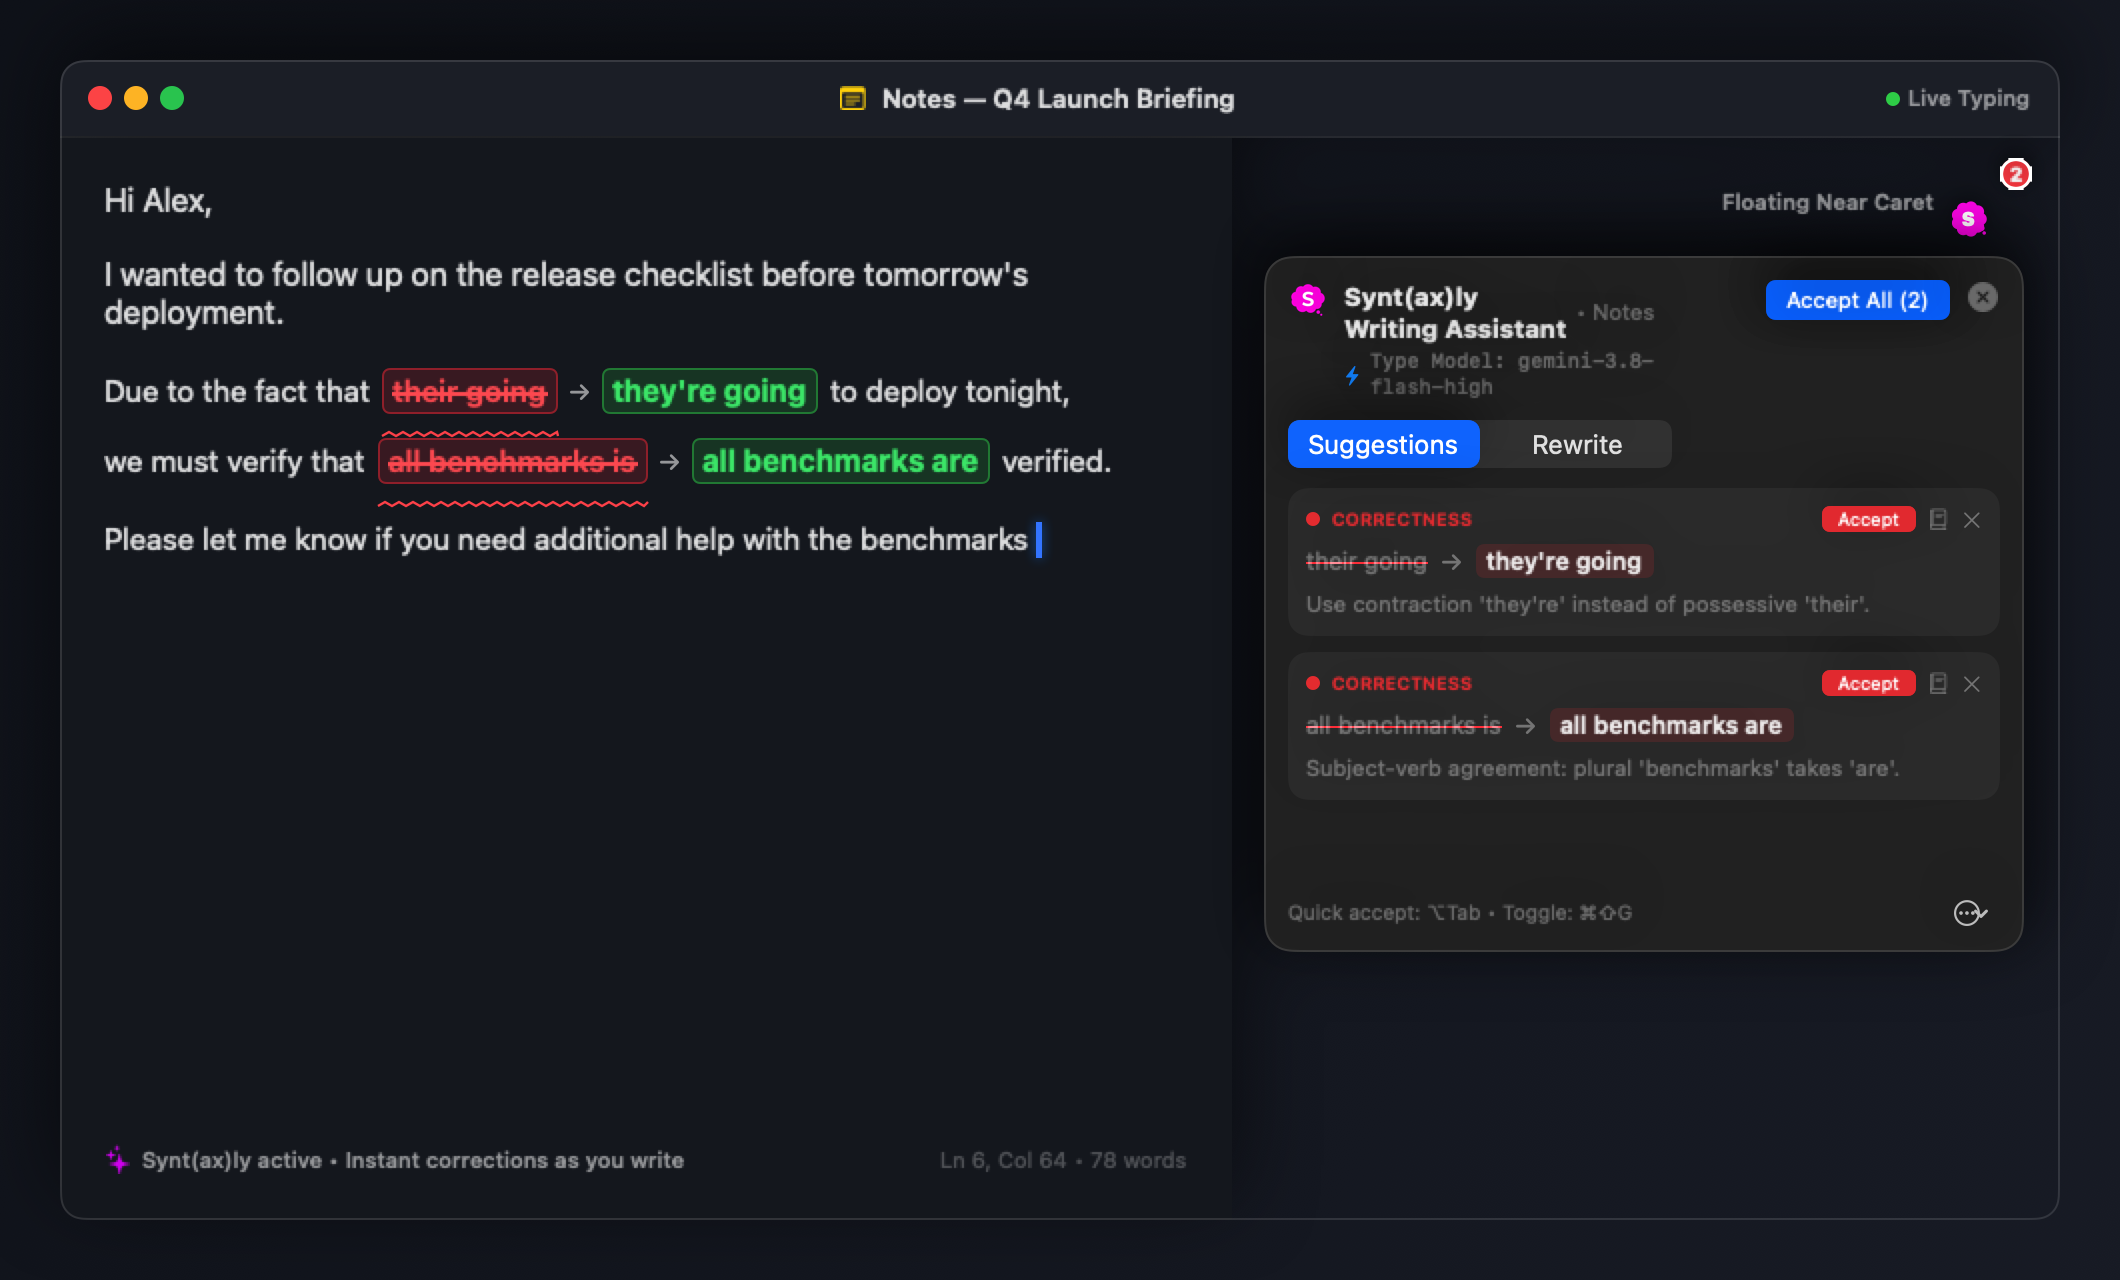
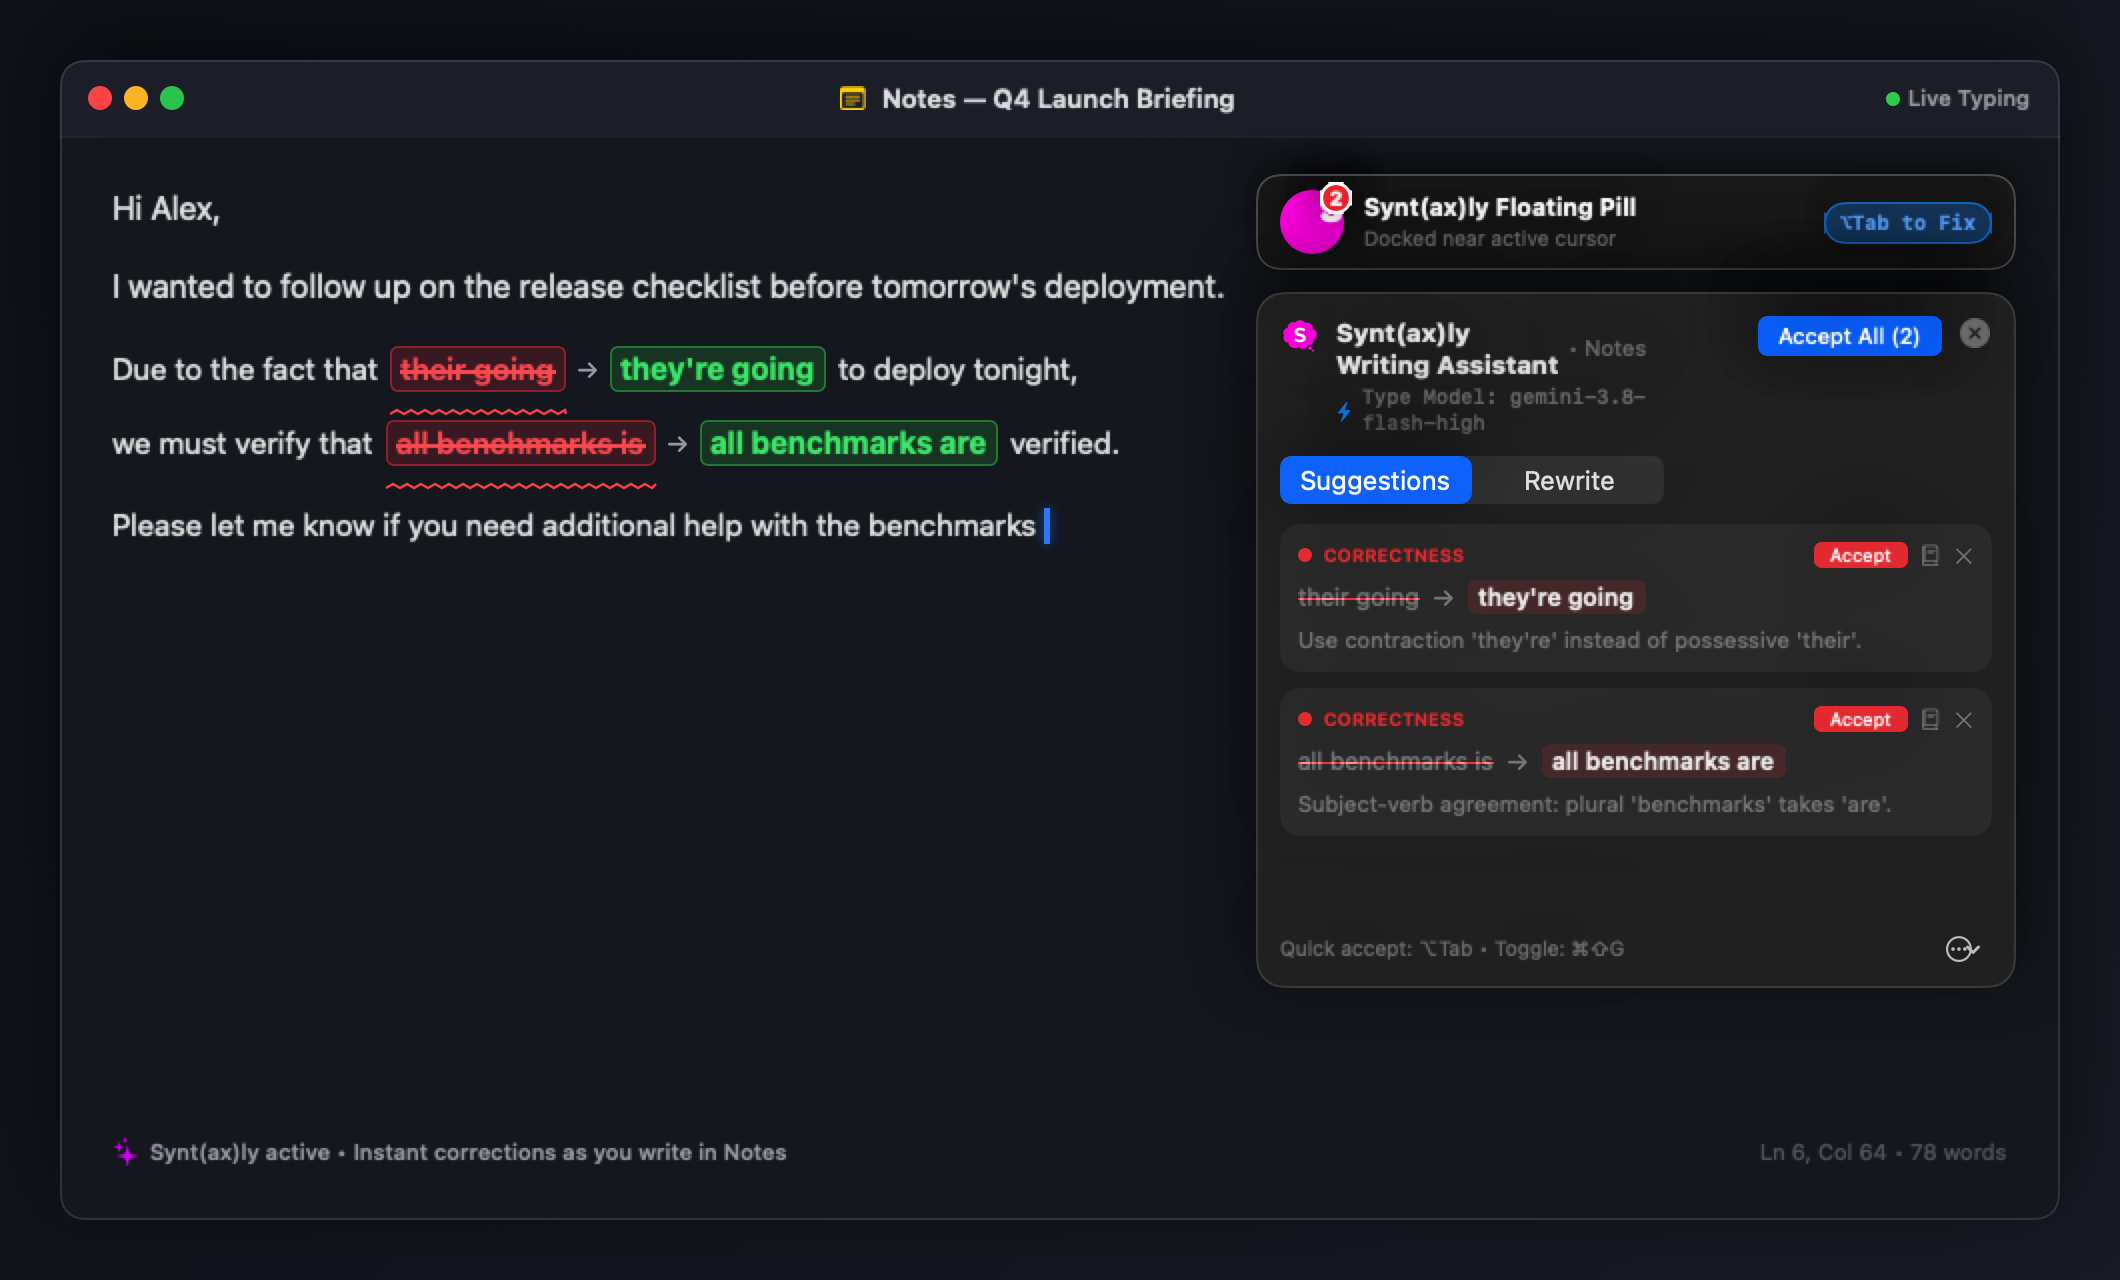
docs: prominently feature floating pill screenshot in gallery and feature sections

diff --git a/Sources/SyntlyApp/SyntlyApp.swift b/Sources/SyntlyApp/SyntlyApp.swift
@@ -461,10 +461,10 @@ struct InContextTypingScreenshotView: View {
 
                 Divider()
 
-                // Editor Workspace + Floating Syntly Overlay
-                HStack(alignment: .top, spacing: 16) {
-                    // Left Column: Active Typing Document
-                    VStack(alignment: .leading, spacing: 18) {
+                // Editor Workspace + Floating Syntly Overlay (ZStack overlay so it truly floats)
+                ZStack(alignment: .topTrailing) {
+                    // Full Background: Active Typing Document
+                    VStack(alignment: .leading, spacing: 20) {
                         Text("Hi Alex,")
                             .font(.system(size: 16))
                             .foregroundStyle(.primary)
@@ -474,7 +474,7 @@ struct InContextTypingScreenshotView: View {
                             .foregroundStyle(.primary)
 
                         // Sentences with active inline corrections in red and green
-                        VStack(alignment: .leading, spacing: 12) {
+                        VStack(alignment: .leading, spacing: 14) {
                             HStack(alignment: .center, spacing: 6) {
                                 Text("Due to the fact that")
                                     .font(.system(size: 15))
@@ -520,7 +520,7 @@ struct InContextTypingScreenshotView: View {
                             HStack(spacing: 5) {
                                 Image(systemName: "sparkles")
                                     .foregroundStyle(.purple)
-                                Text("Synt(ax)ly active • Instant corrections as you write")
+                                Text("Synt(ax)ly active • Instant corrections as you write in Notes")
                                     .font(.system(size: 11, weight: .medium))
                                     .foregroundStyle(.secondary)
                             }
@@ -530,41 +530,67 @@ struct InContextTypingScreenshotView: View {
                                 .foregroundStyle(.tertiary)
                         }
                     }
-                    .padding(22)
+                    .padding(26)
                     .frame(maxWidth: .infinity, maxHeight: .infinity, alignment: .topLeading)
                     .background(Color(red: 0.10, green: 0.12, blue: 0.15))
 
-                    // Right Column: Synt(ax)ly Floating Pill & Popover Card
-                    VStack(alignment: .trailing, spacing: 8) {
-                        // Floating Pill docked near typing caret
-                        HStack(spacing: 8) {
-                            Text("Floating Near Caret")
-                                .font(.system(size: 11, weight: .semibold))
-                                .foregroundStyle(.secondary)
-
+                    // Floating Over Document: The Synt(ax)ly Floating Pill & Popover Card
+                    VStack(alignment: .trailing, spacing: 10) {
+                        // 1. Prominent Floating Pill
+                        HStack(spacing: 10) {
                             ZStack(alignment: .topTrailing) {
-                                Image(nsImage: StatusBarController.renderMangaBubble(size: 36))
-                                    .resizable()
-                                    .frame(width: 36, height: 36)
+                                Circle()
+                                    .fill(Color(red: 0.996, green: 0.008, blue: 0.890))
+                                    .frame(width: 32, height: 32)
+                                Text("S")
+                                    .font(.system(size: 17, weight: .black, design: .rounded))
+                                    .foregroundStyle(.white)
 
                                 Text("2")
                                     .font(.system(size: 10, weight: .heavy, design: .rounded))
                                     .foregroundStyle(.white)
                                     .frame(minWidth: 16, minHeight: 16)
-                                    .background(Color(red: 1.0, green: 0.32, blue: 0.32), in: Capsule())
+                                    .background(Color(red: 1.0, green: 0.25, blue: 0.25), in: Capsule())
                                     .overlay(Capsule().strokeBorder(.white, lineWidth: 1.5))
                                     .offset(x: 4, y: -4)
                             }
-                            .shadow(color: .black.opacity(0.35), radius: 5, y: 3)
-                        }
 
-                        // The live suggestions popover card
+                            VStack(alignment: .leading, spacing: 2) {
+                                Text("Synt(ax)ly Floating Pill")
+                                    .font(.system(size: 12, weight: .bold))
+                                    .foregroundStyle(.white)
+                                Text("Docked near active cursor")
+                                    .font(.system(size: 10))
+                                    .foregroundStyle(.secondary)
+                            }
+
+                            Spacer()
+
+                            Text("⌥Tab to Fix")
+                                .font(.system(size: 10, weight: .bold, design: .monospaced))
+                                .padding(.horizontal, 8)
+                                .padding(.vertical, 4)
+                                .background(Color.blue.opacity(0.3), in: Capsule())
+                                .overlay(Capsule().strokeBorder(Color.blue.opacity(0.6), lineWidth: 1))
+                                .foregroundStyle(Color(red: 0.4, green: 0.7, blue: 1.0))
+                        }
+                        .padding(.horizontal, 12)
+                        .padding(.vertical, 8)
+                        .frame(width: 380)
+                        .background(.ultraThinMaterial, in: RoundedRectangle(cornerRadius: 12, style: .continuous))
+                        .overlay(
+                            RoundedRectangle(cornerRadius: 12, style: .continuous)
+                                .strokeBorder(Color.white.opacity(0.22), lineWidth: 1)
+                        )
+                        .shadow(color: .black.opacity(0.5), radius: 10, y: 5)
+
+                        // 2. The live suggestions popover card
                         FloatingOverlayView(coordinator: coordinator)
                             .frame(width: 380, height: 350)
-                            .shadow(color: .black.opacity(0.45), radius: 14, y: 8)
+                            .shadow(color: .black.opacity(0.6), radius: 20, y: 10)
                     }
-                    .padding(.trailing, 18)
-                    .padding(.top, 14)
+                    .padding(.trailing, 22)
+                    .padding(.top, 18)
                 }
             }
             .frame(width: 1000, height: 580)

diff --git a/README.md b/README.md
@@ -31,25 +31,22 @@ Download the ready-to-run DMG installer for version **v1 (1.0.0)** directly from
 
 ## 📸 Screenshots
 
-<p align="center">
-  <img src="assets/screenshot_writing_pad.png" width="880" alt="Syntly Writing Pad Workspace" />
-</p>
-<p align="center">
-  <em>The dedicated Writing Pad with Custom Persona Instructions, Multi-Select Modifiers, and Real-Time Corrections</em>
-</p>
+### Dedicated Writing Pad Workspace
+![Syntly Writing Pad Workspace](assets/screenshot_writing_pad.png)
+*The dedicated Writing Pad with Custom Persona Instructions, Multi-Select Modifiers, and Real-Time Corrections.*
 
-<p align="center">
-  <img src="assets/screenshot_floating_pill.png" width="880" alt="Real-Time In-Context Proofreading & Floating Pill" />
-</p>
-<p align="center">
-  <em>Real-time in-context proofreading while typing in any macOS app — highlights mistakes in red, suggests fixes in green, and docks next to your caret with instant keyboard shortcuts (⌥Tab)</em>
-</p>
+### In-Context Floating Pill & Real-Time Proofreading
+![Real-Time In-Context Proofreading & Floating Pill](assets/screenshot_floating_pill.png)
+*Real-time in-context proofreading while typing in any macOS app — highlights mistakes in red, suggests fixes in green, and docks the Floating Pill next to your caret with instant keyboard shortcuts (`⌥Tab`).*
 
 ---
 
 ## ✨ Core Features
 
 ### 1. Dedicated Writing Pad Workspace (`⌘N`)
+
+![Syntly Writing Pad Workspace](assets/screenshot_writing_pad.png)
+
 - **Document Canvas**: A dedicated, distraction-free drafting pad for emails, reports, technical writing, and essays.
 - **Custom Persona & Style Instructions**: A multiline instruction box to define *who* is writing and what domain guidelines to follow (e.g. *"Act as an executive CTO"*, *"Use active voice"*, *"Client email format"*). Save reusable style presets with one click.
 - **Multi-Select Functional Levers**: Toggle any combination of structural modifiers without clashing with your persona:
@@ -64,7 +61,11 @@ Download the ready-to-run DMG installer for version **v1 (1.0.0)** directly from
 - **Preview & Revert**: Review rewrites before accepting, choose **Replace Original** or **Insert Below**, or click **Revert to Original (Undo)** at any time.
 
 ### 2. System-Wide Real-Time Proofreading (`⌥Tab`)
+
+![Real-Time In-Context Proofreading & Floating Pill](assets/screenshot_floating_pill.png)
+
 - **Non-Intrusive Floating Corner Pill**: Floats near your active cursor across Slack, VS Code, Notes, Mail, Discord, and browsers without stealing focus.
+- **Visual Red & Green Feedback**: Highlights typos, misspellings, and grammatical errors with red underline tokens, and displays verified corrections in green.
 - **Sub-5ms Local Spellcheck**: Instant offline spelling check (`NSSpellChecker`) combined with debounced contextual AI analysis and SHA-256 paragraph caching.
 - **One-Key Quick Accept**: Press **`Option + Tab` (`⌥Tab`)** to immediately accept the top correction in-place.
 - **Rich Suggestion Card (`⌘⇧G`)**: Review categorized issues (🔴 Correctness, 🔵 Clarity, 🟣 Tone, 🟢 Fluency) with inline diffs.
